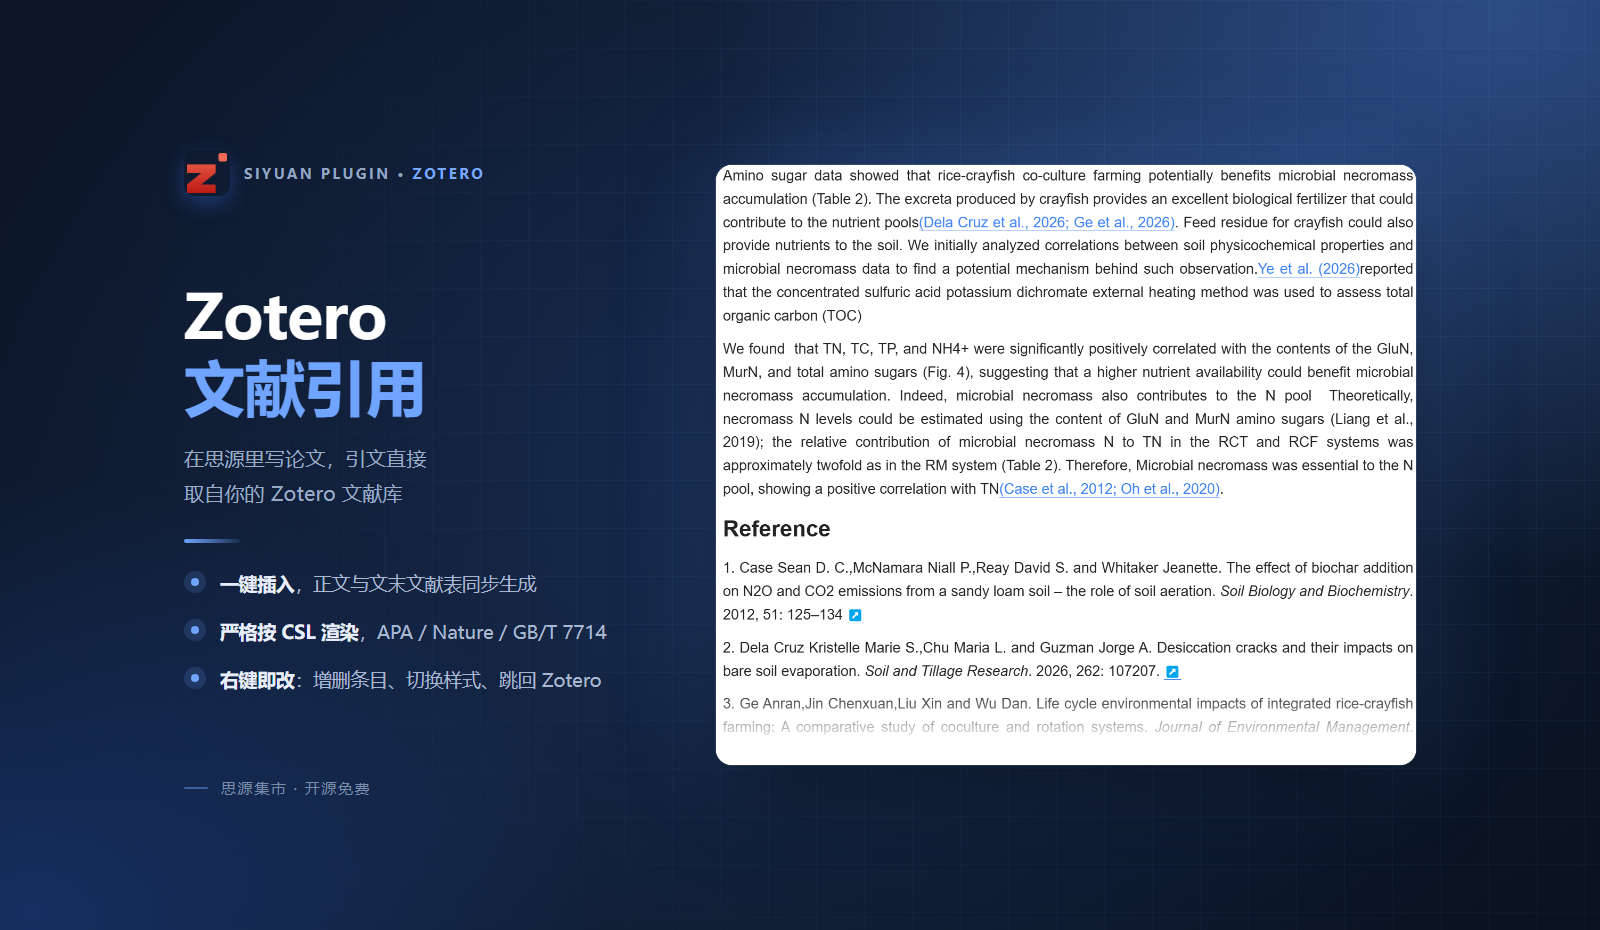
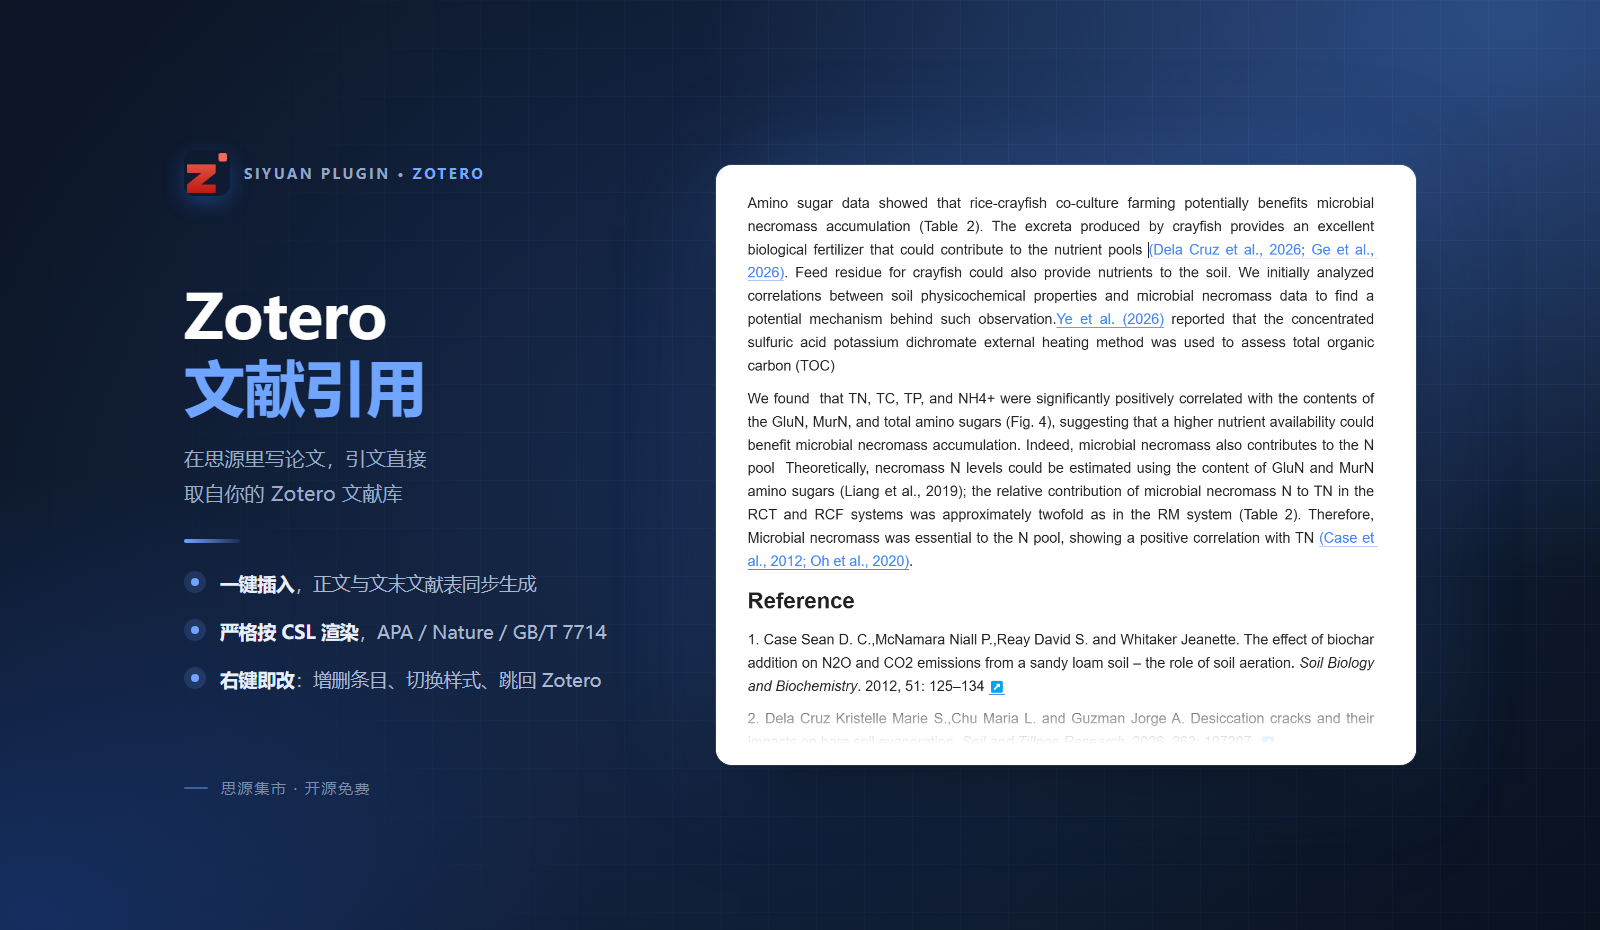
1.2.28: 集市封面换成真实文档截图
- preview.png 改用新截图（正文里 Dela Cruz / Ye / Case 三处引用 + 文末 Reference 列表，
  带 Zotero 跳回图标），比原来更像"真在写论文"
- 截图先裁掉四周空白再进卡片，卡片改内边距 26/30px + 底部 74px 渐隐，文字不再贴边
- 画布仍 1600×930（1.72），1.40~2.60 容器比都过了一遍 cover 模拟，内容不越安全区

Changed region(s): [[0.4375, 0.1871, 0.875, 0.8108]]

diff --git a/README_en.md b/README_en.md
@@ -1,4 +1,4 @@
-# Zotero Cite (siyuan-plugin-zotero-cite) v1.2.27
+# Zotero Cite (siyuan-plugin-zotero-cite) v1.2.28
 
 **English** | [简体中文](./README.md)
 
@@ -220,6 +220,7 @@ MIT License © 2026 ttChen
 
 | Version | Date | Highlights |
 |---|---|---|
+| 1.2.28 | 2026-11-03 | Marketplace cover now uses a real document screenshot (in-text citations + bibliography), with card padding and bottom fade |
 | 1.2.27 | 2026-11-03 | Author name unified to ttChen (plugin.json / package.json / LICENSE / README) |
 | 1.2.26 | 2026-11-03 | All three dialogs redesigned: note bar + card list + numbered badges + custom checkboxes, side padding, follows dark theme; marketplace cover and README screenshots added |
 | 1.2.25 | 2026-11-01 | Narrowed click handling so Zotero annotation back-links are no longer swallowed |

diff --git a/README.md b/README.md
@@ -1,4 +1,4 @@
-# Zotero Cite（siyuan-plugin-zotero-cite）v1.2.27
+# Zotero Cite（siyuan-plugin-zotero-cite）v1.2.28
 
 **简体中文** | [English](./README_en.md)
 
@@ -223,6 +223,7 @@ MIT License © 2026 ttChen
 
 | 版本 | 日期 | 主要变化 |
 |---|---|---|
+| 1.2.28 | 2026-11-03 | 集市封面换成真实文档截图（正文引用 + 文末文献表），卡片加内边距与底部渐隐 |
 | 1.2.27 | 2026-11-03 | 作者名统一为 ttChen（plugin.json / package.json / LICENSE / README） |
 | 1.2.26 | 2026-11-03 | 三个对话框版式重做：说明条 + 卡片列表 + 序号徽标 + 自绘复选框，左右留白，深色主题跟随；补集市封面与 README 配图 |
 | 1.2.25 | 2026-11-01 | 点击监听收窄，不再吞掉 Zotero 批注回跳链接 |
